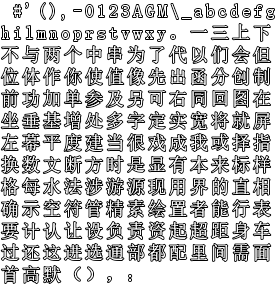
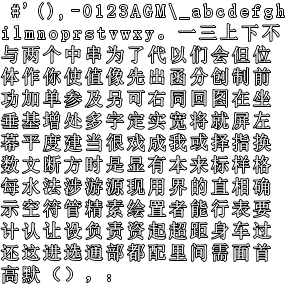
Update example resources

diff --git a/tools/generate_fonts.py b/tools/generate_fonts.py
@@ -1,7 +1,7 @@
 import shutil
 from pathlib import Path
 
-from .utils import generate_font
+from python_utils import utils
 
 FONT_PATH = Path('simsun.ttc')
 TEST_DIR = Path('../projects/test.gm82/gm_fonts')
@@ -32,5 +32,5 @@ string_width_ext(string, sep, w) 当前字体及将要通过 draw_text_ext() 函
 string_height_ext(string, sep, w) 当前字体及将要通过 draw_text_ext() 函数绘制的字符串 string 的高度。可以用来精确定位图像位置。sep 代表行间距，w 代表行宽。
 '''
 
-generate_font(FONT_PATH, TEST_DIR / 'default.png', font_size=18, charset=CHARSET, stroke_width=1)
+utils.generate_font(FONT_PATH, TEST_DIR / 'default.png', font_size=18, charset=CHARSET, stroke_width=1)
 shutil.copytree(TEST_DIR, EXAMPLE_DIR, dirs_exist_ok=True)
